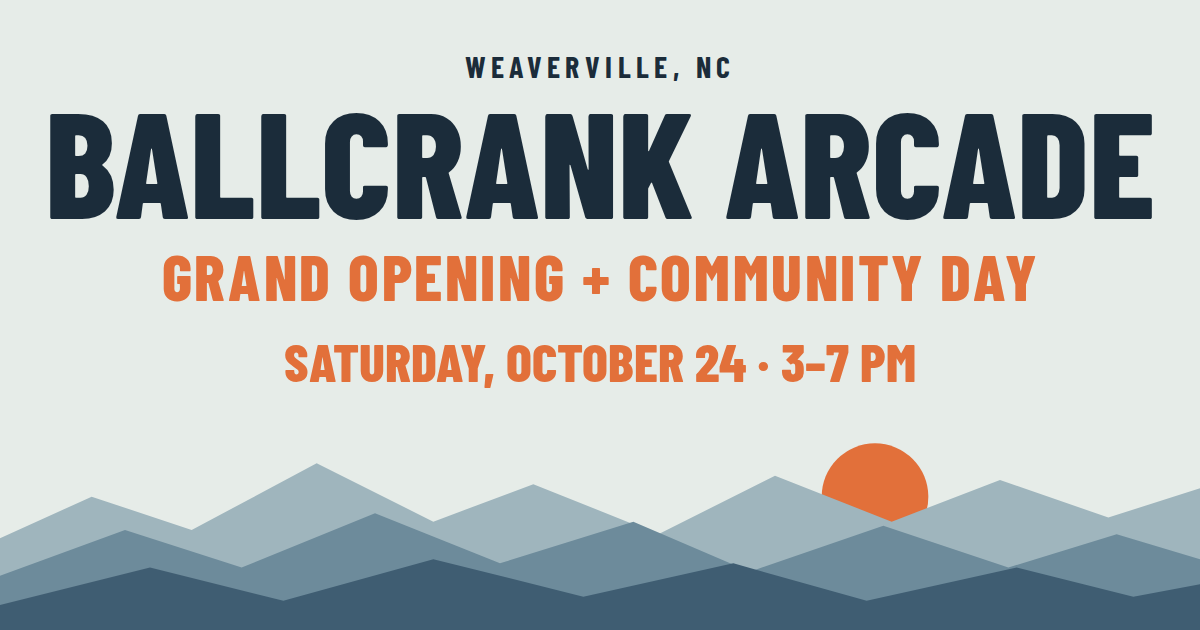
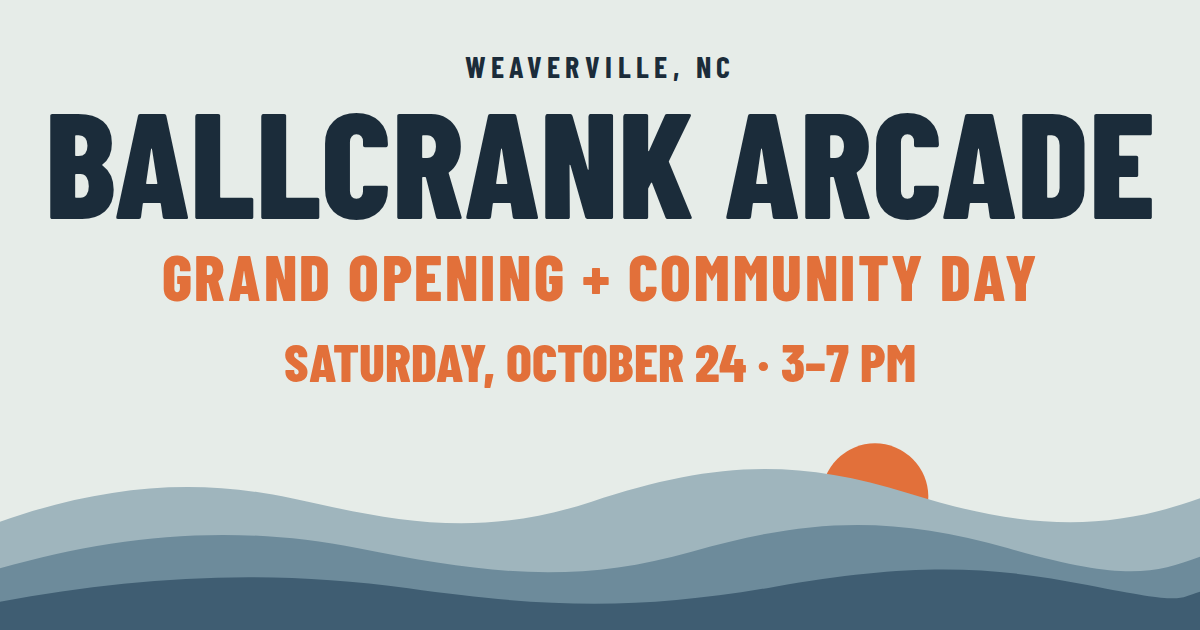
Soften mountain band to rounded ridgelines; update share image
Claude-Session: https://claude.ai/code/session_01JMf8yTXhduT3Ho7Ve95o7i

Changed region(s): [[0.0, 0.7238, 1.0, 0.9651], [0.0, 0.8746, 0.0308, 0.9048]]

diff --git a/index.html b/index.html
@@ -209,9 +209,9 @@
       </div>
       <svg class="mountains" viewBox="0 0 1440 280" preserveAspectRatio="xMidYMax slice" aria-hidden="true" focusable="false">
         <circle cx="1050" cy="120" r="64" fill="#E2703A"/>
-        <path fill="#9FB5BD" d="M0 170 L110 120 L230 160 L380 80 L520 150 L640 105 L790 165 L930 95 L1070 150 L1200 100 L1330 145 L1440 110 L1440 280 L0 280 Z"/>
-        <path fill="#6D8B9B" d="M0 215 L150 160 L290 205 L450 140 L600 200 L760 150 L900 210 L1060 155 L1210 205 L1340 165 L1440 195 L1440 280 L0 280 Z"/>
-        <path fill="#3F5D72" d="M0 250 L180 205 L340 245 L520 195 L700 240 L880 200 L1040 245 L1220 205 L1360 240 L1440 225 L1440 280 L0 280 Z"/>
+        <path fill="#9FB5BD" d="M0 150 C120 108 230 96 350 122 S570 172 710 126 S950 72 1090 116 S1330 162 1440 122 L1440 280 L0 280 Z"/>
+        <path fill="#6D8B9B" d="M0 206 C140 166 280 152 430 182 S690 226 830 186 S1070 142 1210 182 S1385 212 1440 192 L1440 280 L0 280 Z"/>
+        <path fill="#3F5D72" d="M0 246 C160 216 320 206 490 230 S770 256 930 228 S1185 202 1305 226 S1412 242 1440 234 L1440 280 L0 280 Z"/>
       </svg>
     </section>
 
